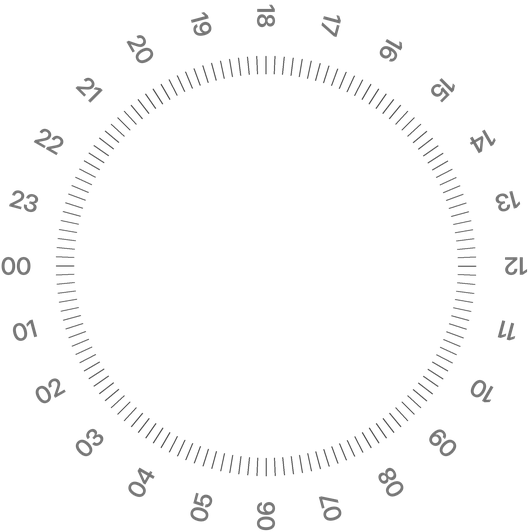
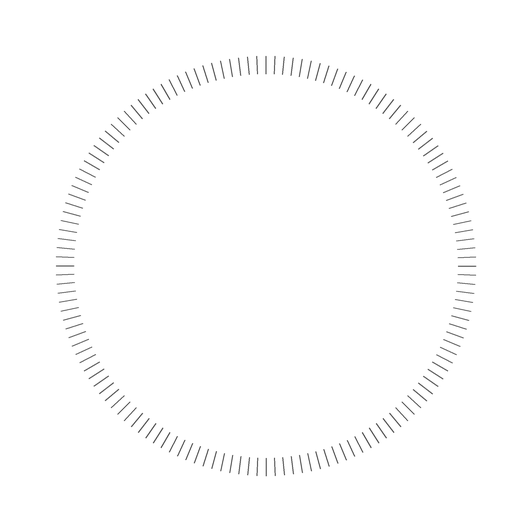
Лінійка: AOD — година завжди навпроти риски, без підписів на диску [skip ci]
Claude-Session: https://claude.ai/code/session_01WysSwiNnPXkBgFifEqasra

diff --git a/windows/faces/ruler/make.py b/windows/faces/ruler/make.py
@@ -64,7 +64,7 @@ for t,dim in (("n",False),("a",True)):
         r0,r1=(CX-194),(CX-160 if big else CX-176)
         if dim: r1=CX-176; big=False                # AOD — як раніше: лише дрібні поділки (і на місці годинних теж)
         d.line([at(psi,r0),at(psi,r1)],fill=cB if big else cS,width=(3 if big else 1)*K)
-    for j in range(24):
+    for j in (range(24) if not dim else []):       # в AOD підписів на диску немає — година стоїть навпроти риски
         psi=270-DEG*j; beta=270-psi                # підпис повернуто так, щоб біля риски він стояв рівно
         tp=Image.new("RGBA",(60*K,40*K),(0,0,0,0)); ImageDraw.Draw(tp).text((30*K,20*K),"%02d"%j,font=fl,fill=cL,anchor="mm")
         tp=tp.rotate(beta,resample=Image.BICUBIC,expand=True); x,y=at(psi,RL)
@@ -82,6 +82,7 @@ for t,dim in (("n",False),("a",True)):
             dy=abs(y+0.5-MID); a=0 if dy<=WIN-FADE else (255 if dy>=WIN else round(255*(dy-WIN+FADE)/FADE))
             for x in range(W-SX0): px[x,y]=(0,0,0,a)
         image("mask_a",mk); lay(t,"mask_a",SX0,0)
+        ch=digits("hr_a",F("SemiBold",24),cL,30); number("hr_a","timeHour","hr_a",2); lay(t,"hr_a",136-ch,MID-15)   # година — завжди навпроти риски
     # хвилини, «ХВ», секунди
     fm=F("Bold",72); cw=digits("min_"+t,fm,(115,115,115) if dim else WH,80); number("min_"+t,"timeMinute","min_"+t,2); lay(t,"min_"+t,62-cw,MID-44-40+2)
     image("xv_"+t,text_img("ХВ",F("Bold",21,False),(115,115,115) if dim else OR,h=24)); lay(t,"xv_"+t,62-Image.open(os.path.join(OUT,"xv_%s.png"%t)).width/2,MID+15-12+3)
